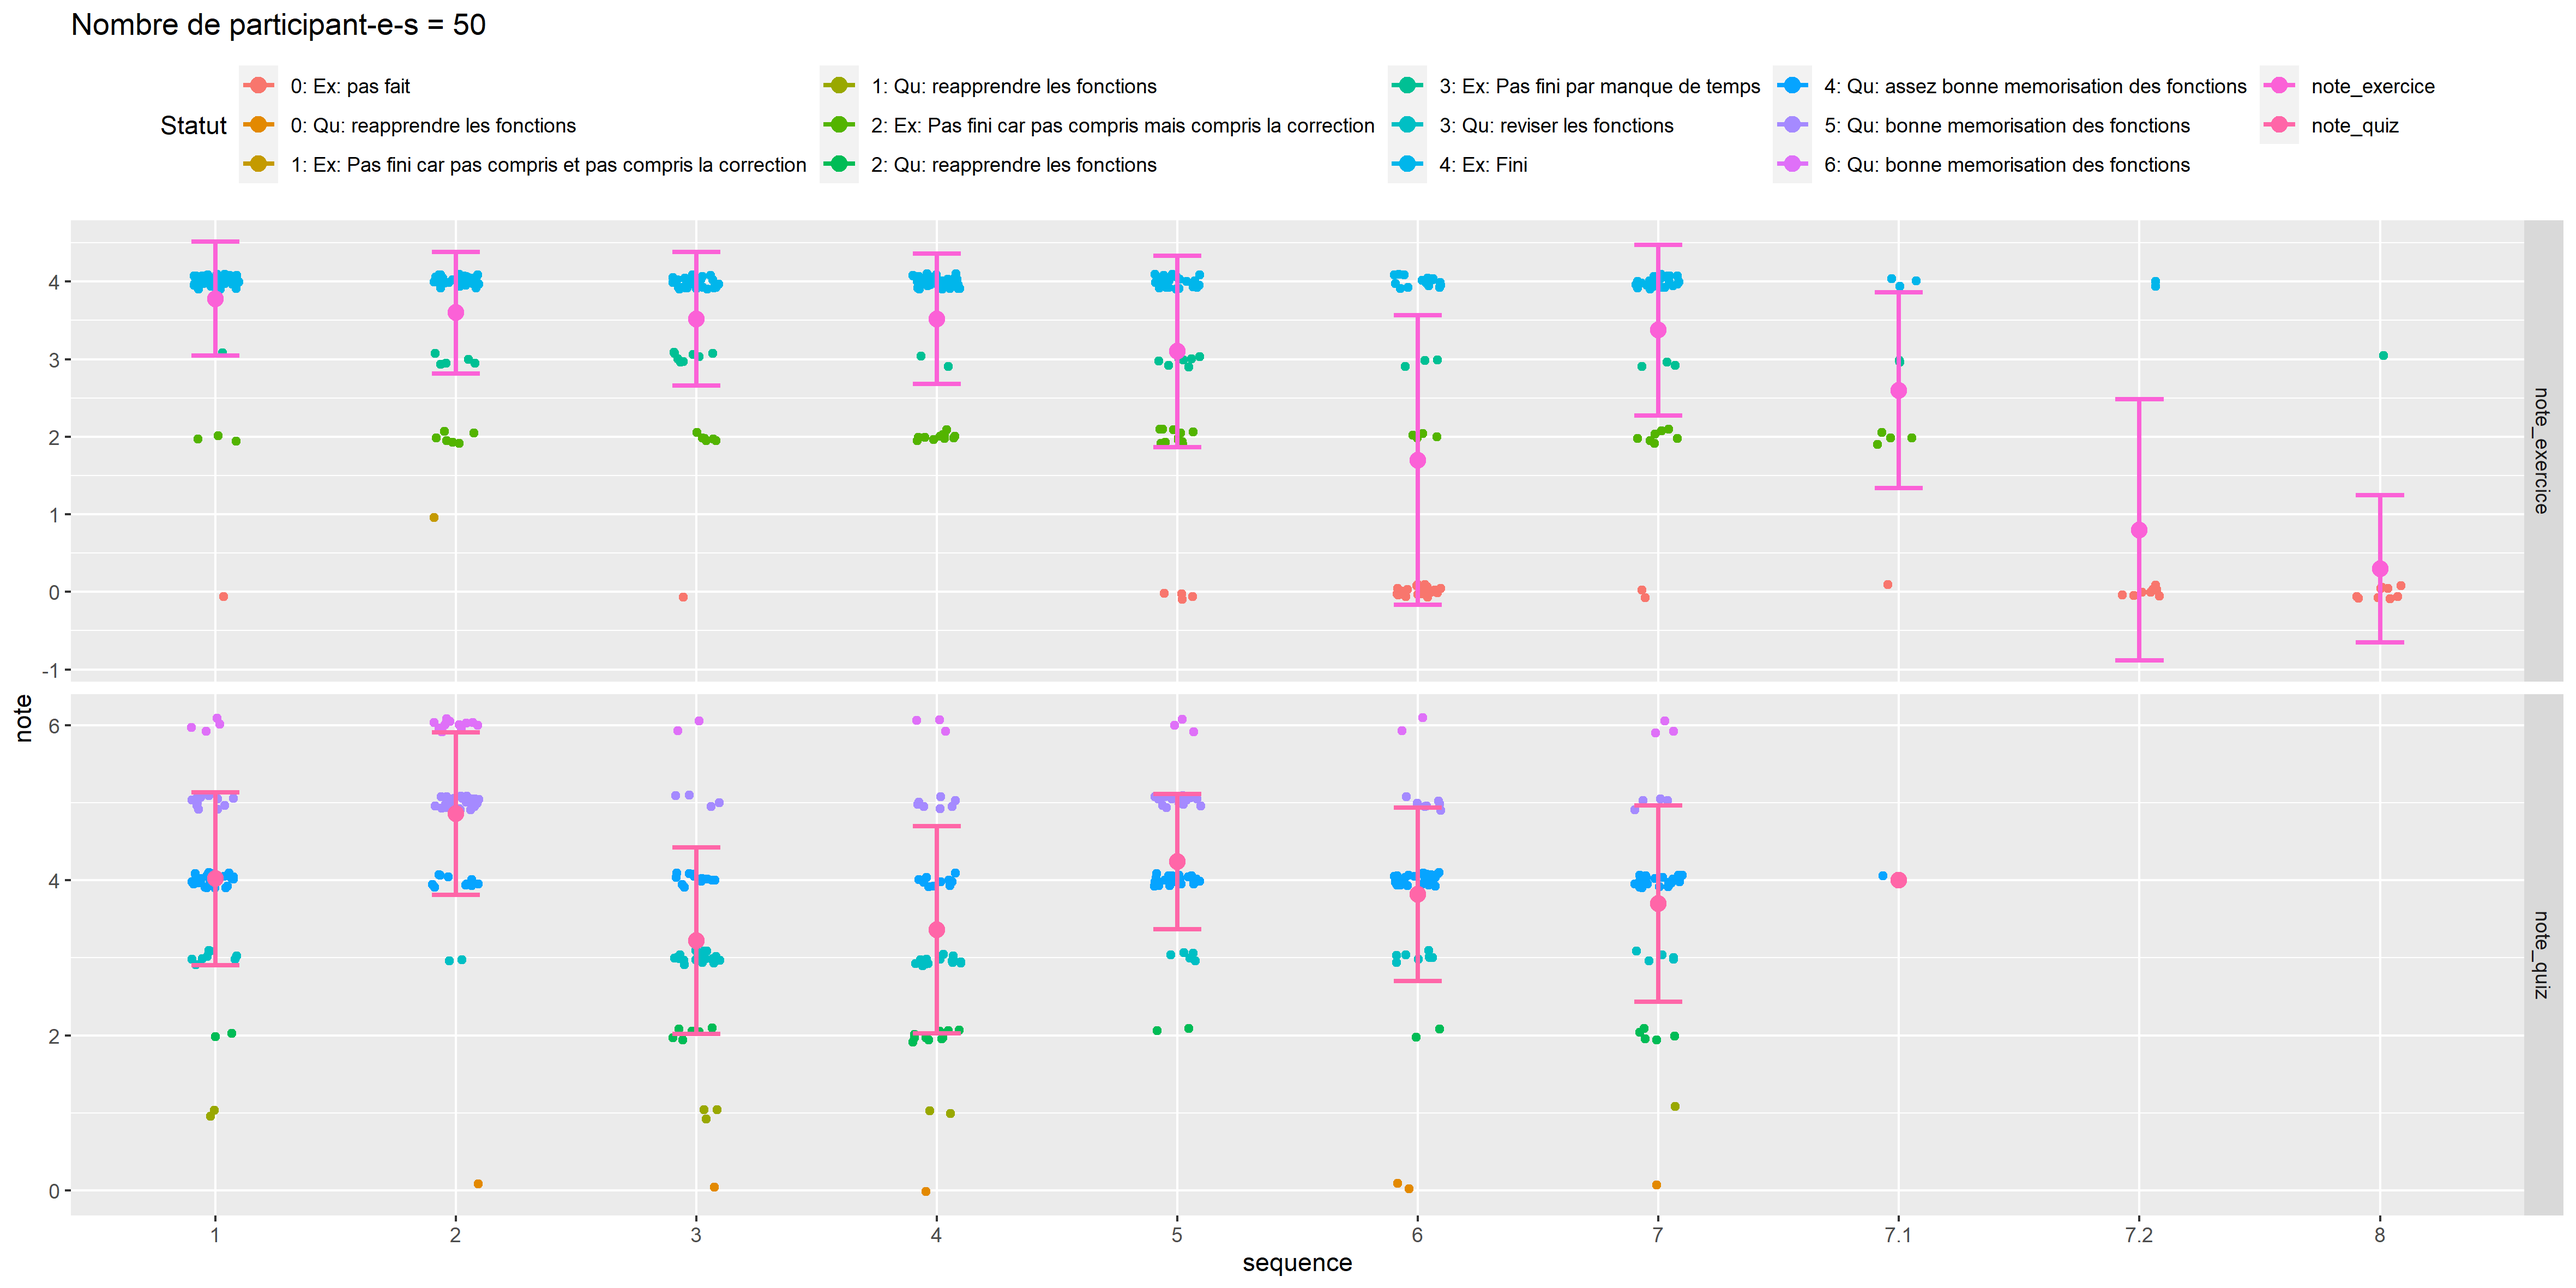
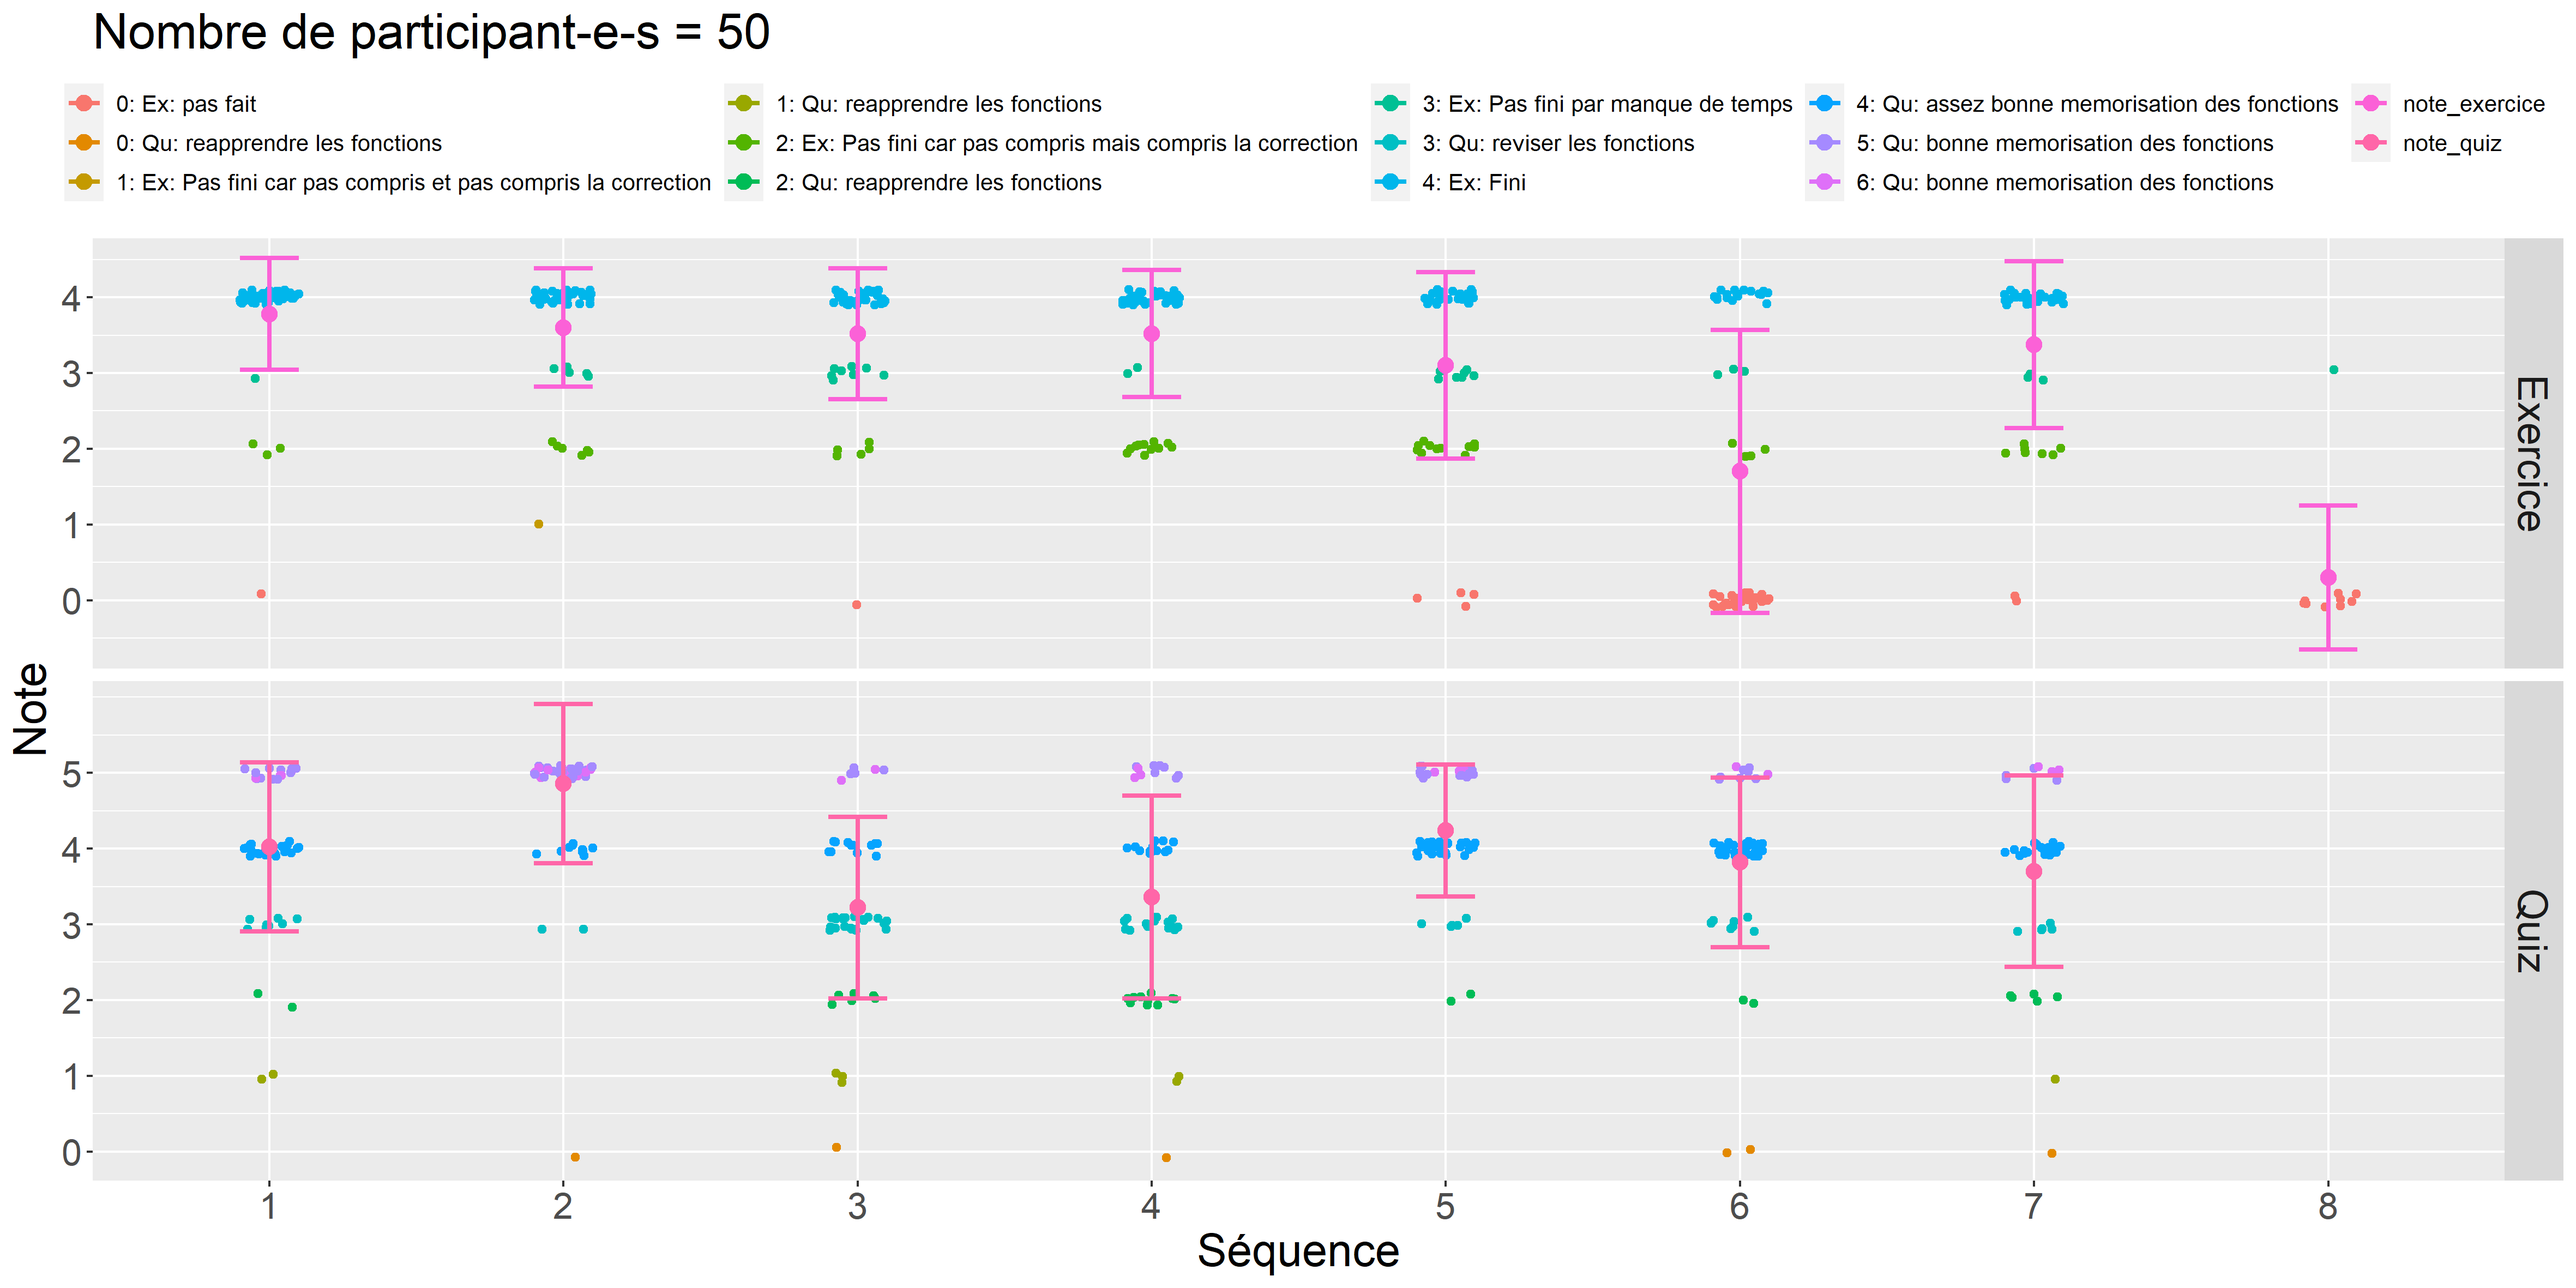
Modifications graphiques évaluation et correction grammaire

diff --git a/docs/aspects-pratiques.html b/docs/aspects-pratiques.html
@@ -24,7 +24,7 @@
 <meta name="author" content="Oswaldo Forey" />
 
 
-<meta name="date" content="2021-04-21" />
+<meta name="date" content="2021-04-22" />
 
   <meta name="viewport" content="width=device-width, initial-scale=1" />
   <meta name="apple-mobile-web-app-capable" content="yes" />
@@ -207,15 +207,16 @@ le nombre de personnes ayant répondu à l’enquête.</p>
 <p>La figure 7 montre les résultats des participant-e-s aux quiz et
 exercices de chaque séquence. Ces résultats sont issus de
 l’autoévaluation par les participant-e-s en fin de deuxième journée et
-indiquent évaluent l’efficacité de la mémorisation (quiz) et les
-capacités à remobiliser les connaissances dans un autre contexte
-(exercices). L’absence de notes dans les exercices 7.2 et 8 (le 7.1
-étant le 7) indique que la durée de deux jours de formation est un peu
-courte, et qu’un troisième jour est nécessaire…</p>
+évaluent l’efficacité de la mémorisation (quiz) et les capacités à
+remobiliser les connaissances dans un autre contexte (exercices). Le peu
+de notes dans l’exercice de synthèse (exercice 8) indique que la durée
+de deux jours de formation est un peu courte, et qu’un troisième jour
+est nécessaire…</p>
 <div class="figure">
 <img src="img/graphique_autoevaluation.png" alt="" />
 <p class="caption">Figure 7: Résultats des participant-e-s aux quiz et exercices de
-chaque séquence.</p>
+chaque séquence. Les points roses avec les barres d’erreurs sont les
+moyennes et les écart-types.</p>
 </div>
 </div>
 </div>

diff --git a/docs/index.html b/docs/index.html
@@ -24,7 +24,7 @@
 <meta name="author" content="Oswaldo Forey" />
 
 
-<meta name="date" content="2021-04-21" />
+<meta name="date" content="2021-04-22" />
 
   <meta name="viewport" content="width=device-width, initial-scale=1" />
   <meta name="apple-mobile-web-app-capable" content="yes" />
@@ -127,7 +127,7 @@ pour les Sciences de la Vie</div></a>
 pour les Sciences de la Vie</div></h1>
 <h2 class="subtitle"><em>Version 2.3</em></h2>
 <p class="author"><em>Oswaldo Forey</em></p>
-<p class="date"><em>2021-04-21</em></p>
+<p class="date"><em>2021-04-22</em></p>
 </div>
 <div id="objectifs-de-la-formation" class="section level1" number="1">
 <h1><span class="header-section-number">1</span> Objectifs de la formation</h1>

diff --git a/docs/méthode-pédagogique-et-architecture-de-la-formation.html b/docs/méthode-pédagogique-et-architecture-de-la-formation.html
@@ -24,7 +24,7 @@
 <meta name="author" content="Oswaldo Forey" />
 
 
-<meta name="date" content="2021-04-21" />
+<meta name="date" content="2021-04-22" />
 
   <meta name="viewport" content="width=device-width, initial-scale=1" />
   <meta name="apple-mobile-web-app-capable" content="yes" />

diff --git a/docs/programme-de-la-formation.html b/docs/programme-de-la-formation.html
@@ -24,7 +24,7 @@
 <meta name="author" content="Oswaldo Forey" />
 
 
-<meta name="date" content="2021-04-21" />
+<meta name="date" content="2021-04-22" />
 
   <meta name="viewport" content="width=device-width, initial-scale=1" />
   <meta name="apple-mobile-web-app-capable" content="yes" />
